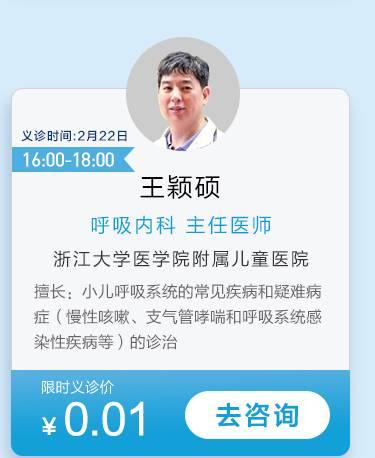
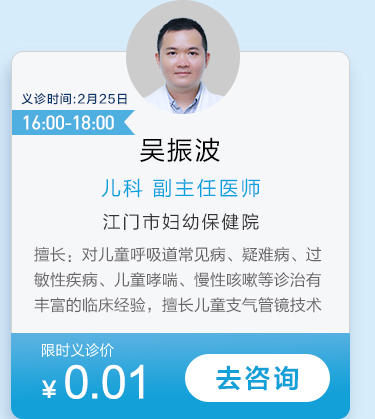
fixed

diff --git a/index.html b/index.html
@@ -12,8 +12,8 @@
 	<meta http-equiv="Cache-Control" content="no-cache, no-store, must-revalidate" />
 	<meta http-equiv="Pragma" content="no-cache" />
 	<meta http-equiv="Expires" content="0" />
-	<script src="./axios.min.js?rand=1"></script>
-	<script src="./jquery-3.4.1.min.js?rand=1"></script>
+	<script src="./axios.min.js?rand=0225"></script>
+	<script src="./jquery-3.4.1.min.js?rand=0225"></script>
 
 	<style type="text/css">
 		*{
@@ -86,53 +86,45 @@
 
 		</div>
 		<div class="header">
-			<div><img src="./1.jpg?rand=1"/></div>
-			<div><img src="./2.jpg?rand=1"/></div>
-			<div><img src="./3.jpg?rand=1"/></div>
+			<div><img src="./1.jpg?rand=0225"/></div>
+			<div><img src="./2.jpg?rand=0225"/></div>
+			<div><img src="./3.jpg?rand=0225"/></div>
 		</div>
 
 
 		<div class="one-doctor">
-			<div class="one-doctor-left"><a href="https://www.jk.cn/srilanka/#/doctor-detail/151300880301"><img src="./d1.jpg?rand=1"/></a></div>
-			<div class="one-doctor-right"><a href="https://www.jk.cn/srilanka/#/doctor-detail/151276220801"><img src="./d2.jpg?rand=1"/></a></div>
+			<div class="one-doctor-left"><a href="https://www.jk.cn/srilanka/#/doctor-detail/151166500003"><img src="./d1.jpg?rand=0225"/></a></div>
+
+			<div class="one-doctor-right"><a href="https://www.jk.cn/srilanka/#/doctor-detail/151441960903"><img src="./d2.jpg?rand=0225"/></a></div>
 
 		</div>
 
-		<div class="one-doctor">
-			<div class="one-doctor-left"><a href="https://www.jk.cn/srilanka/#/doctor-detail/151320050502"><img src="./d3.jpg?rand=1"/></a></div>
-			<div class="one-doctor-right"><a href="https://www.jk.cn/srilanka/#/doctor-detail/151300400708"><img src="./d4.jpg?rand=1"/></a></div>
-		</div>
-		<div><img src="./space1.jpg?rand=1"/></div>
-		<div class="one-doctor">
-			<div class="one-doctor-left"><a href="https://www.jk.cn/srilanka/#/doctor-detail/151303290204"><img src="./d5.jpg?rand=1"/></a></div>
-			<div class="one-doctor-right"><a href="https://www.jk.cn/srilanka/#/doctor-detail/151186570108"><img src="./d6.jpg?rand=1"/></a></div>
-		</div>
-		<div><img src="./space2.jpg?rand=1"/></div>
+		<div><img src="./s1.jpg?rand=0225"/></div>
 
 		<div class="one-doctor">
-			<div class="one-doctor-left"><a href="https://www.jk.cn/srilanka/#/doctor-detail/2064950607"><img src="./d7.jpg?rand=1"/>
+			<div class="one-doctor-left"><a href="https://www.jk.cn/srilanka/#/doctor-detail/151391160609"><img src="./d3.jpg?rand=0225"/></a></div>
+			<div class="one-doctor-right"><a href="https://www.jk.cn/srilanka/#/doctor-detail/151303160405"><img src="./d4.jpg?rand=0225"/></a></div>
+		</div>
+		<div><img src="./s2.jpg?rand=0225"/></div>
+
+		<div class="one-doctor">
+			<div class="one-doctor-left"><a href="https://www.jk.cn/srilanka/#/doctor-detail/151332060708"><img src="./d5.jpg?rand=0225"/></a></div>
+			<div class="one-doctor-right"><a href="https://www.jk.cn/srilanka/#/doctor-detail/151203610702"><img src="./d6.jpg?rand=0225"/></a></div>
+		</div>
+		<div><img src="./s3.jpg?rand=0225"/></div>
+
+		<div class="one-doctor">
+			<div class="one-doctor-left"><a href="https://www.jk.cn/srilanka/#/doctor-detail/151223970406"><img src="./d7.jpg?rand=0225"/>
 			</a></div>
-			<div class="one-doctor-right"><a href="https://www.jk.cn/srilanka/#/doctor-detail/78369280709"><img src="./d8.jpg?rand=1"/></a></div>
+			<div class="one-doctor-right"><a href="https://www.jk.cn/srilanka/#/doctor-detail/78369280709"><img src="./d8.jpg?rand=0225"/></a></div>
 		</div>
-		<div><img src="./space3.jpg?rand=1"/></div>
-
-		<div class="one-doctor">
-			<div class="one-doctor-left"><a href="https://www.jk.cn/srilanka/#/doctor-detail/151199430705"><img src="./d9.jpg?rand=1"/>
-			</a></div>
-			<div class="one-doctor-right"><a href="https://www.jk.cn/srilanka/#/doctor-detail/151176860305"><img src="./d10.jpg?rand=1"/></a></div>
-		</div>
-			<div><img src="./space4.jpg?rand=1"/></div>
-
-
+		<div><img src="./s4.jpg?rand=0225"/></div>
 
 	</div>
-	<script src="http://res.wx.qq.com/open/js/jweixin-1.6.0.js?rand=1"></script>
-
+	<script src="http://res.wx.qq.com/open/js/jweixin-1.6.0.js?rand=0225"></script>
 	<script>
 		$(document).ready(function(){
-
 			$("#backButton").click(function(){
-
 				history.back()
 			})
 
